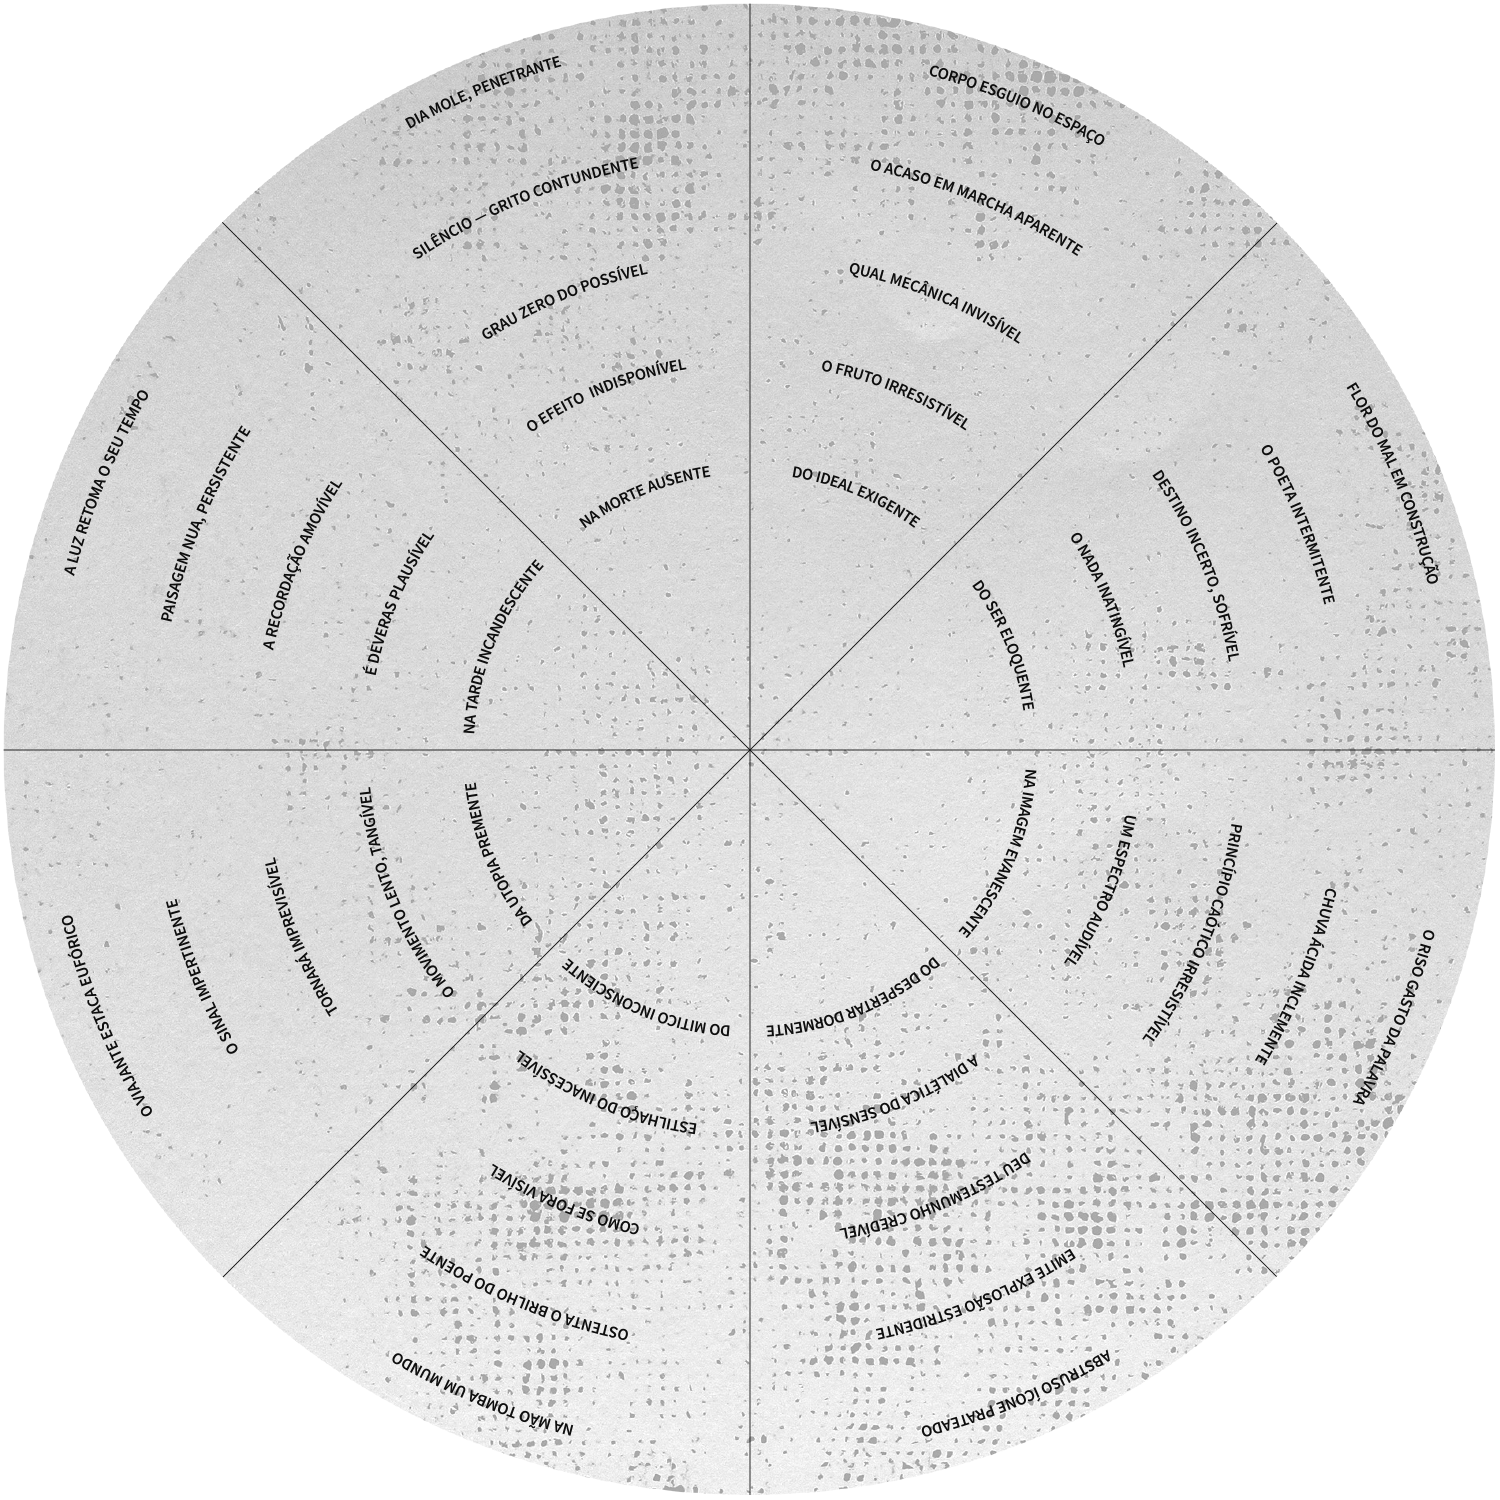
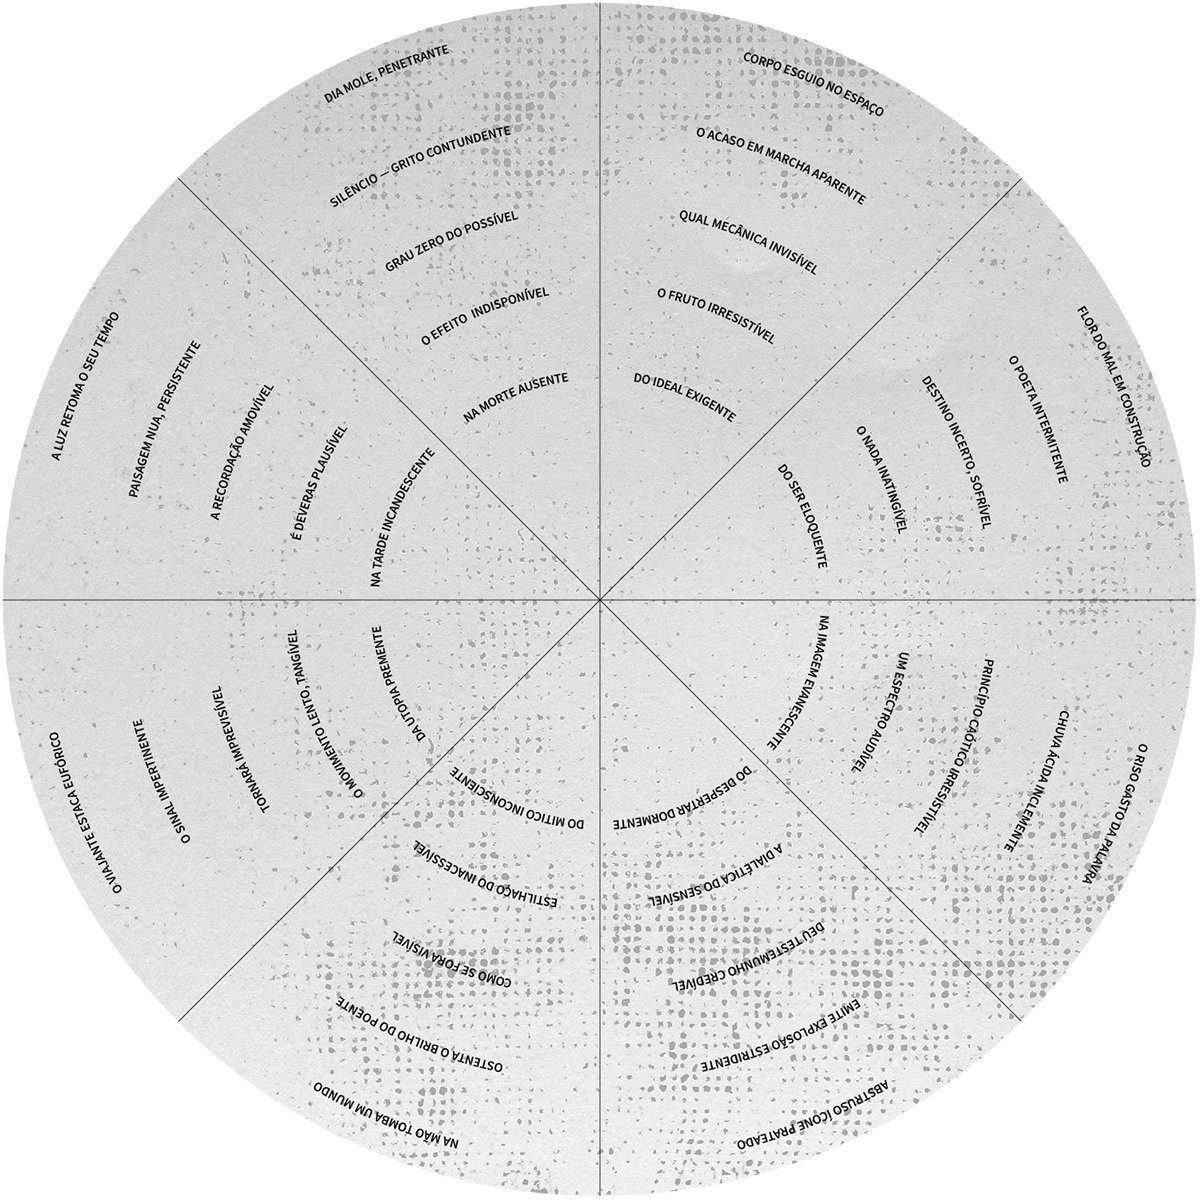
words volvelles to 1200, masks to 1000, change links at bottom of page

diff --git a/index.html b/index.html
@@ -57,10 +57,7 @@ The code was adapted to:
 <div id="puzzle-canvas-wrapper-words-centered"></div>
 </div>
 
-<p id="info" style="font-size: 16px; margin-left: 0px; margin-bottom: 50px; position:relative;
-top: 1550px;">>> <a target="_blank" href="https://www.behance.net/pedsim">Portfolio do Pedro Simões</a>. Com apoio técnico da <a target="_blank" href="https://terhimarttila.com/">Terhi Marttila</a> e da <a target="_blank" href="https://historicaltype.eu/about-me">Celeste Pedro</a>. <a target="_blank" href="https://thedigitalreview.com/issue03/hacking/">Um projeto irmão</a>.</p>
-<br>
-<br>
+<p id="info" style="font-size: 16px; margin-left: 0px; margin-top: 30px; margin-bottom: 20px; position:relative;">>> <a target="_blank" href="https://www.behance.net/pedsim">Portfolio do Pedro Simões</a> >> Com apoio técnico da >> <a target="_blank" href="https://terhimarttila.com/">Terhi Marttila</a> e da >> <a target="_blank" href="https://historicaltype.eu/about-me">Celeste Pedro</a> >> <a target="_blank" href="https://thedigitalreview.com/issue03/hacking/">Um projeto irmão</a> >></p>
 	<script language="javascript" type="text/javascript" src="assets/lib/p5.min.js"></script>
 	<script language="javascript" type="text/javascript" src="assets/script/volvelle-image.js"></script>
 </body>

diff --git a/assets/css/volvelle-image.css b/assets/css/volvelle-image.css
@@ -11,15 +11,13 @@ body
 }
 
 #volvelle-canvas{
-  position: relative;
+  position: relative; 
+  height: 1500px;
 }
 
 #puzzle-canvas-wrapper{
   position: absolute;
   cursor: pointer;
-  height: 1000px;
-  margin: 0px auto 0 auto;
-  width: 2000px;
   margin-left: -757px;
   z-index: 1000;
 }
@@ -27,17 +25,15 @@ body
 #puzzle-canvas-wrapper-img{
   position: absolute;
   cursor: pointer;
-  height: 800px;
-  margin: -300px auto 0 auto;
-  width: 800px;
+  margin-left: -150px;
+  margin-top: -250px;
 }
 
 #puzzle-canvas-wrapper-words-centered{
   position: absolute;
   cursor: pointer;
-  height: 1500px;
-  margin: 0 auto 0 auto;
-  width: 1500px;
+  margin-left: -50px;
+  margin-top: -150px;
 }
 
 p{
